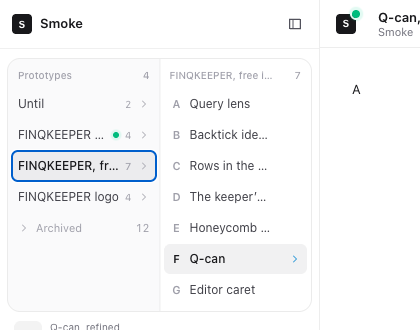
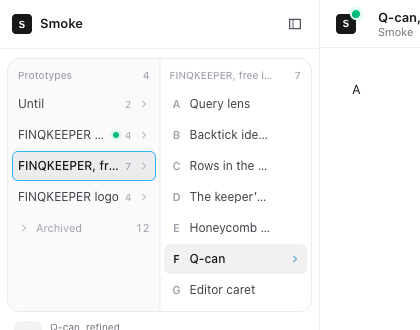
The shell's keyboard focus is one inset outline in the navigation's sky

Changed region(s): [[0.0, 0.4545, 0.3714, 0.5455], [0.031, 0.5152, 0.3714, 0.5758]]

diff --git a/app/shell/shell.css b/app/shell/shell.css
@@ -51,6 +51,20 @@ body { margin: 0; }
   --color-proto-primary-ring: var(--proto-primary-ring);
 }
 
+/* Keyboard focus in the shell's own chrome: the one outline every row, button and link gets, so
+   none needs its own. Inset, so it follows the control's corners and stays inside a column's
+   padding, and in the navigation's sky, the hue of the lit row. Designs (data-mount) keep the
+   browser's. In the base layer, so a control with a ring of its own (a focus-visible: utility)
+   still wins. */
+:root { --proto-focus: oklch(68.5% 0.169 237.323 / 0.8); }
+.dark { --proto-focus: oklch(74.6% 0.16 232.661 / 0.8); }
+@layer base {
+  :where(#app) :where(button, a[href], summary, [tabindex]:not([tabindex="-1"])):focus-visible:not(:where([data-mount] *)) {
+    outline: 1.5px solid var(--proto-focus);
+    outline-offset: -1.5px;
+  }
+}
+
 /* Copy mode (comments/copy.tsx): each line with options gets a dotted underline. A line in light
    words (on a dark button) gets a light one, from a rule the picker writes for it. */
 [data-copy-on] [data-copy] {

diff --git a/CLAUDE.md b/CLAUDE.md
@@ -47,3 +47,13 @@ Never replace evidence with "screenshots taken locally", "happy to attach them",
 or an offer to upload later. If capture or publication fails, state the exact
 blocker and keep the PR draft until the images are published. Do not claim the
 screenshots are attached or the PR is ready without verifying publication.
+
+## Shell UI: keyboard focus
+
+The shell's chrome has one keyboard focus outline: the base rule in `app/shell/shell.css`
+(`--proto-focus`, a 1.5px inset line in the navigation's sky). Every button, link and
+focusable row in the shell gets it without a class. Don't add `focus-visible:outline-*` or
+`focus-visible:ring-*` to new shell controls. To restyle focus everywhere, change
+`--proto-focus` or that rule. A control that needs something else (a separator showing its
+line, a text field's ring) styles it with `focus-visible:` utilities, which override the base
+rule. Designs inside `[data-mount]` keep the browser's own focus style.
